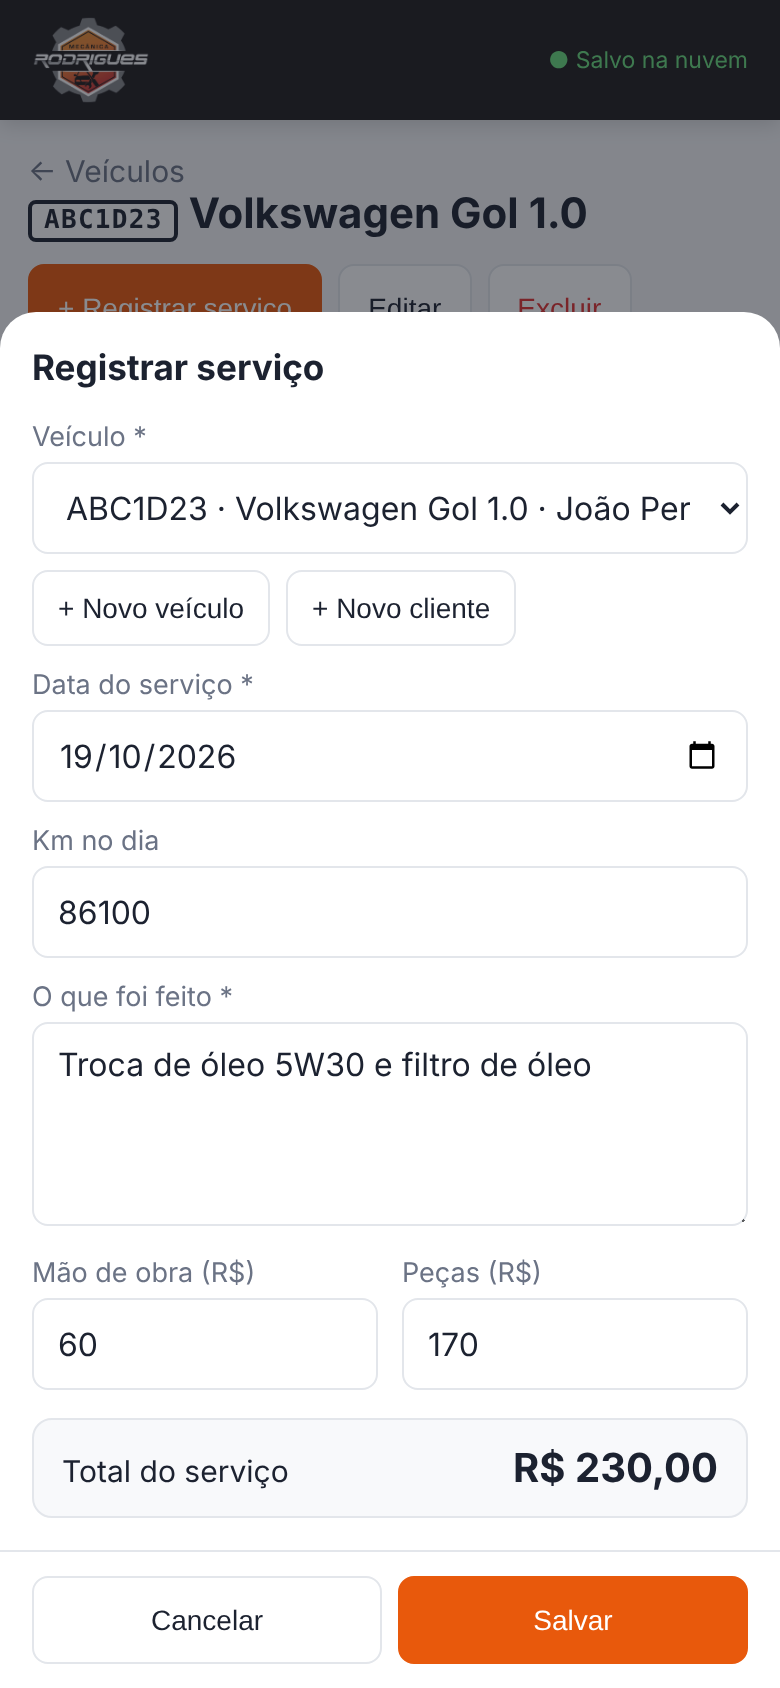
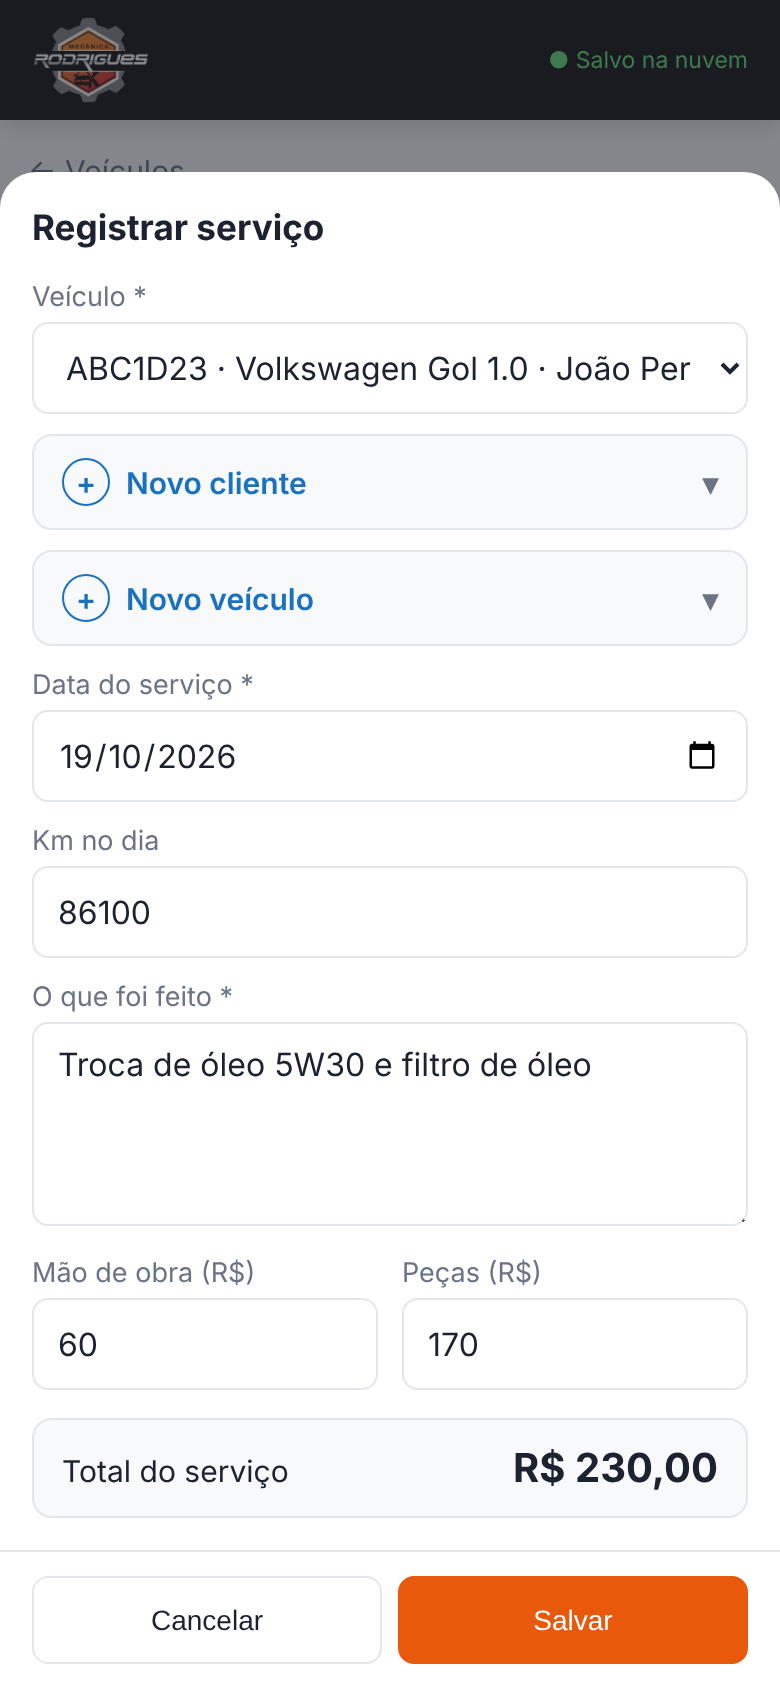
Novo cliente e novo veículo como seções dentro do serviço (versão 7)
- o formulário de registrar serviço passa a ter duas seções que abrem e
  fecham, nesta ordem: "Novo cliente" e "Novo veículo" (no lugar dos
  botões que abriam outra janela)
- abrir "Novo veículo" dispensa escolher o veículo da lista; abrir
  "Novo cliente" abre também o veículo com o novo cliente como dono
- ao salvar, valida tudo (nome/telefone, dono, placa/modelo, placa
  repetida) e só então cria cliente, veículo e serviço, nessa ordem
- sem clientes ou veículos cadastrados, as seções necessárias já abrem
- versão 7 (COMPAT_MINIMA continua 6: formato dos dados não mudou)
- README e prints atualizados

Claude-Session: https://claude.ai/code/session_01Nm6nWQGTdthzbNY6jBommo

diff --git a/app.js b/app.js
@@ -10,7 +10,7 @@ const DB_KEY = "oficina_db_v1";
 // Se a mudança altera o formato dos dados (uma versão antiga estragaria ou
 // apagaria dados novos), iguale também COMPAT_MINIMA a APP_VERSAO: as versões
 // mais antigas que ela ficam impedidas de gravar até serem atualizadas.
-const APP_VERSAO = 6;
+const APP_VERSAO = 7;
 const COMPAT_MINIMA = 6;
 
 // ---------- utilidades ----------
@@ -360,9 +360,7 @@ const servicoFields = () => [
           l: [v.placa, nomeVeiculo(v), getCliente(v.clienteId)?.nome].filter(Boolean).join(" · "),
         })),
     ],
-    afterHTML: `<div class="field-actions">
-      <button type="button" class="btn sm" data-novo="veiculo">+ Novo veículo</button>
-      <button type="button" class="btn sm" data-novo="cliente">+ Novo cliente</button></div>`,
+    afterHTML: novosCadastrosHTML(),
   },
   { k: "data", label: "Data do serviço", type: "date", required: true },
   { k: "km", label: "Km no dia", type: "number", step: "1", ph: "Ex.: 85400" },
@@ -379,15 +377,108 @@ const servicoFields = () => [
   { k: "pecas", label: "Peças (R$)", type: "money", ph: "0,00" },
 ];
 
-// rascunho: valores já digitados no formulário (ao voltar de "Novo veículo"/"Novo cliente")
-function editServico(id, preset = {}, rascunho = null) {
-  if (!db.veiculos.length && !rascunho) {
-    toast("Cadastre um veículo primeiro");
-    return editVeiculo(null, {}, (vid) => editServico(null, { ...preset, veiculoId: vid }));
+/* "Novo cliente" e "Novo veículo" dentro do formulário de serviço: duas seções
+   que abrem e fecham (nessa ordem). Os campos delas não fazem parte do serviço;
+   ao Salvar, o app cria o cliente, depois o veículo e por fim o serviço. */
+function novosCadastrosHTML() {
+  const clientes = db.clientes.slice().sort((a, b) => a.nome.localeCompare(b.nome));
+  return `<details class="sub-form" id="dNovoCliente">
+      <summary>Novo cliente</summary>
+      <div class="grid">
+        <div class="full"><label>Nome *</label><input name="nc_nome" autocomplete="off"></div>
+        <div><label>Telefone *</label><input name="nc_telefone" type="tel" inputmode="tel" autocomplete="off" placeholder="(67) 98888-7777"></div>
+        <div><label>Endereço</label><input name="nc_endereco" autocomplete="off"></div>
+      </div>
+    </details>
+    <details class="sub-form" id="dNovoVeiculo">
+      <summary>Novo veículo</summary>
+      <div class="grid">
+        <div class="full"><label>Dono *</label><select name="nv_dono">
+          <option value="">— selecione —</option>
+          <option value="__novo__" hidden disabled>Novo cliente (acima)</option>
+          ${clientes.map((c) => `<option value="${esc(c.id)}">${esc(c.nome)}</option>`).join("")}
+        </select></div>
+        <div><label>Placa *</label><input name="nv_placa" autocomplete="off" placeholder="ABC1D23"></div>
+        <div><label>Marca</label><input name="nv_marca" autocomplete="off" placeholder="Volkswagen"></div>
+        <div class="full"><label>Modelo *</label><input name="nv_modelo" autocomplete="off" placeholder="Gol 1.0"></div>
+      </div>
+      <p class="hint">O serviço será registrado neste veículo novo.</p>
+    </details>`;
+}
+
+// Liga as seções: abrir "Novo veículo" dispensa a escolha do veículo; abrir
+// "Novo cliente" abre também o veículo, já com o novo cliente como dono.
+function ligarNovosCadastros() {
+  const dC = $("#dNovoCliente"),
+    dV = $("#dNovoVeiculo"),
+    sel = $('#mf [name="veiculoId"]'),
+    dono = $('#mf [name="nv_dono"]'),
+    optNovo = $('#mf [name="nv_dono"] option[value="__novo__"]');
+  const sync = () => {
+    sel.disabled = dV.open;
+    sel.required = !dV.open;
+    optNovo.hidden = optNovo.disabled = !dC.open;
+    if (dC.open && !dono.value) dono.value = "__novo__";
+    if (!dC.open && dono.value === "__novo__") dono.value = "";
+  };
+  dC.addEventListener("toggle", () => {
+    sync();
+    if (dC.open) {
+      dV.open = true;
+      dono.value = "__novo__";
+      setTimeout(() => $('#mf [name="nc_nome"]')?.focus(), 30);
+    }
+  });
+  dV.addEventListener("toggle", () => {
+    if (dV.open && !dC.open) setTimeout(() => { if (dV.isConnected) (dono.value ? $('#mf [name="nv_placa"]') : dono)?.focus(); }, 30);
+    sync();
+  });
+  sync();
+}
+
+// Lê e valida as seções abertas. Devolve { cliente, veiculo } (novos) ou null se inválido.
+function lerNovosCadastros(km) {
+  const val = (n) => ($(`#mf [name="${n}"]`)?.value || "").trim();
+  const abrirC = $("#dNovoCliente").open,
+    abrirV = $("#dNovoVeiculo").open;
+  let cliente = null,
+    veiculo = null;
+  if (abrirC) {
+    if (!val("nc_nome") || !val("nc_telefone")) {
+      alert("Novo cliente: informe nome e telefone.");
+      return null;
+    }
+    if (!abrirV) {
+      alert("Cadastre também o veículo do novo cliente.");
+      $("#dNovoVeiculo").open = true;
+      return null;
+    }
+    cliente = { id: uid(), nome: val("nc_nome"), telefone: val("nc_telefone"), endereco: val("nc_endereco"), criado: today() };
   }
+  if (abrirV) {
+    const dono = val("nv_dono");
+    const clienteId = dono === "__novo__" ? cliente?.id : getCliente(dono)?.id;
+    if (!clienteId) {
+      alert("Novo veículo: escolha o dono.");
+      return null;
+    }
+    const placa = val("nv_placa").toUpperCase().replace(/[^A-Z0-9]/g, "");
+    if (!placa || !val("nv_modelo")) {
+      alert("Novo veículo: informe placa e modelo.");
+      return null;
+    }
+    if (db.veiculos.some((x) => x.placa === placa)) {
+      alert("Já existe um veículo com essa placa. Escolha-o na lista de veículos.");
+      return null;
+    }
+    veiculo = { id: uid(), clienteId, placa, marca: val("nv_marca"), modelo: val("nv_modelo"), km: km === "" ? "" : km, criado: today() };
+  }
+  return { cliente, veiculo };
+}
+
+function editServico(id, preset = {}) {
   const s = id ? getServico(id) : { data: today(), ...preset };
   if (!s) return;
-  const dados = rascunho ? { ...s, ...rascunho } : s;
   // serviço registrado antes da divisão: mantém o total se os dois campos ficarem vazios
   const totalAntigo = id && !temDivisao(s) && temNum(s.valor) ? num(s.valor) : null;
   const extraHTML = `<div class="total-servico"><span>Total do serviço</span><b id="totalServico">—</b></div>
@@ -410,17 +501,20 @@ function editServico(id, preset = {}, rascunho = null) {
   formModal(
     id ? "Editar serviço" : "Registrar serviço",
     servicoFields(),
-    dados,
+    s,
     (vals) => {
-      const v = getVeiculo(vals.veiculoId);
+      const novos = lerNovosCadastros(vals.km);
+      if (!novos) return false;
+      const v = novos.veiculo || getVeiculo(vals.veiculoId);
       if (!v) {
-        alert("Escolha o veículo.");
+        alert("Escolha o veículo ou abra “Novo veículo” para cadastrar um.");
         return false;
       }
       if (!vals.descricao) {
         alert("Descreva o que foi feito.");
         return false;
       }
+      vals.veiculoId = v.id;
       // km menor que o de um serviço anterior costuma ser erro de digitação
       if (vals.km !== "") {
         const antes = db.servicos.filter(
@@ -436,6 +530,9 @@ function editServico(id, preset = {}, rascunho = null) {
         )
           return false;
       }
+      // tudo validado: grava cliente e veículo novos antes do serviço
+      if (novos.cliente) db.clientes.push(novos.cliente);
+      if (novos.veiculo) db.veiculos.push(novos.veiculo);
       // total = mão de obra + peças
       if (vals.maoDeObra === "" && vals.pecas === "") vals.valor = totalAntigo !== null ? totalAntigo : "";
       else vals.valor = arred(num(vals.maoDeObra) + num(vals.pecas));
@@ -451,29 +548,17 @@ function editServico(id, preset = {}, rascunho = null) {
       atualizarKm(v);
       if (veiculoAntes && veiculoAntes !== v) atualizarKm(veiculoAntes);
       save();
-      toast("Serviço salvo");
+      toast(
+        novos.cliente ? "Cliente, veículo e serviço salvos" : novos.veiculo ? "Veículo e serviço salvos" : "Serviço salvo",
+      );
       render();
     },
     { extraHTML, onInput, ...(id ? { onDelete: () => removeItem("servico", id) } : {}) },
   );
-  // "+ Novo veículo" e "+ Novo cliente": guardam o que já foi digitado, abrem o
-  // cadastro e, ao salvar, voltam para este serviço com o veículo novo escolhido.
-  // Cancelar (ou voltar) retorna para o serviço sem perder nada.
-  const lerRascunho = () => Object.fromEntries($$("#mf [name]").map((el) => [el.name, el.value]));
-  const voltar = (r) => () => editServico(id, preset, r);
-  const comVeiculo = (r) => (vid) => editServico(id, preset, { ...r, veiculoId: vid });
-  $('#mf [data-novo="veiculo"]').onclick = () => {
-    const r = lerRascunho();
-    editVeiculo(null, {}, comVeiculo(r), { onCancel: voltar(r) });
-  };
-  $('#mf [data-novo="cliente"]').onclick = () => {
-    const r = lerRascunho();
-    editCliente(
-      null,
-      (cid) => editVeiculo(null, { clienteId: cid }, comVeiculo(r), { onCancel: voltar(r) }),
-      { onCancel: voltar(r) },
-    );
-  };
+  ligarNovosCadastros();
+  // sem veículos (ou sem clientes) cadastrados: já abre as seções necessárias
+  if (!db.clientes.length) $("#dNovoCliente").open = true;
+  else if (!db.veiculos.length) $("#dNovoVeiculo").open = true;
 }
 
 function removeItem(kind, id) {

diff --git a/style.css b/style.css
@@ -96,7 +96,20 @@ table.list td.desc { max-width: 420px; }
 .tl-desc { margin-top: 4px; white-space: pre-line; overflow-wrap: anywhere; }
 .tl-dono { font-size: 13px; margin-top: 4px; }
 .tl-partes { font-size: 13px; margin-top: 4px; }
-.field-actions { display: flex; gap: 8px; flex-wrap: wrap; margin-top: 8px; }
+/* Novo cliente / Novo veículo dentro do formulário de serviço */
+.sub-form { margin-top: 10px; border: 1px solid var(--border); border-radius: 10px; background: var(--surface-2); }
+.sub-form summary { list-style: none; cursor: pointer; padding: 11px 14px; font-weight: 600; color: var(--info);
+  display: flex; align-items: center; gap: 8px; -webkit-tap-highlight-color: transparent; }
+.sub-form summary::-webkit-details-marker { display: none; }
+.sub-form summary::before { content: "+"; display: inline-grid; place-items: center; width: 22px; height: 22px; border-radius: 50%;
+  border: 1.5px solid currentColor; font-size: 15px; line-height: 1; }
+.sub-form[open] summary::before { content: "−"; }
+.sub-form summary::after { content: "▾"; margin-left: auto; color: var(--muted); transition: transform .15s; }
+.sub-form[open] summary::after { transform: rotate(180deg); }
+.sub-form[open] summary { border-bottom: 1px solid var(--border); }
+.sub-form > .grid { padding: 12px 14px 4px; }
+.sub-form > .hint { padding: 0 14px 12px; margin: 6px 0 0; }
+#mf select:disabled { opacity: .5; }
 
 /* Campo de pesquisa com a lupa à direita */
 .busca { position: relative; flex: 1 1 340px; max-width: 340px; }

diff --git a/README.md b/README.md
@@ -19,7 +19,7 @@ As imagens usam dados de exemplo (fictícios).
     <td align="center"><img src="docs/screenshots/celular-painel.png" width="200" alt="Painel com resumo do mês e últimos serviços"><br><sub><b>Painel</b><br>resumo do mês e últimos serviços</sub></td>
     <td align="center"><img src="docs/screenshots/celular-historico.png" width="200" alt="Ficha do veículo com o histórico de serviços"><br><sub><b>Histórico do veículo</b><br>data, km, mão de obra, peças, total e dono na época</sub></td>
     <td align="center"><img src="docs/screenshots/celular-servicos.png" width="200" alt="Lista de todos os serviços com busca"><br><sub><b>Serviços</b><br>todos os serviços, com busca</sub></td>
-    <td align="center"><img src="docs/screenshots/celular-registrar.png" width="200" alt="Formulário para registrar um serviço"><br><sub><b>Registrar serviço</b><br>mão de obra + peças = total, com atalhos para novo veículo e cliente</sub></td>
+    <td align="center"><img src="docs/screenshots/celular-registrar.png" width="200" alt="Formulário para registrar um serviço"><br><sub><b>Registrar serviço</b><br>mão de obra + peças = total, com seções de novo cliente e novo veículo</sub></td>
   </tr>
 </table>
 
@@ -65,7 +65,7 @@ Regras principais:
 - **Dono na época:** cada serviço guarda quem era o dono quando foi registrado. Se o carro for vendido (troca de dono no cadastro do veículo), o histórico continua mostrando o dono antigo nos serviços antigos ("Dono na época: …"), e a ficha do cliente antigo continua listando os serviços feitos para ele.
 - **Valores do serviço:** cada serviço tem **mão de obra** e **peças**; o **total** é a soma dos dois, calculada na hora no formulário. Os campos aceitam `235,50`, `1.234,56`, `R$ 80` ou `80.5`; um valor inválido é recusado com aviso. Painel, lista de serviços e ficha do veículo mostram os totais de mão de obra, peças e geral.
 - **Serviços registrados antes da divisão** (versão 5 ou anterior) só têm o total. Eles continuam somando no total geral; ao editar, o formulário mostra o total guardado e, se mão de obra e peças forem deixadas vazias, o total é mantido.
-- **Cadastro rápido no serviço:** o formulário de registrar serviço tem **+ Novo veículo** e **+ Novo cliente**. O que já foi digitado no serviço é guardado; ao salvar o cadastro, o app volta ao serviço com o veículo novo escolhido (no caso de cliente novo, abre em seguida o veículo dele). Cancelar volta para o serviço sem perder nada.
+- **Novo cliente e novo veículo no próprio serviço:** o formulário de registrar serviço tem duas seções que abrem e fecham, nesta ordem: **Novo cliente** e **Novo veículo**. Abrir "Novo veículo" dispensa escolher um veículo da lista; abrir "Novo cliente" abre também o veículo, já com o novo cliente como dono. Ao **Salvar**, o app valida tudo e só então cria o cliente, o veículo e o serviço, nessa ordem (nada fica criado pela metade). Sem clientes ou veículos cadastrados, as seções necessárias já abrem sozinhas.
 - **Botão voltar do celular:** com uma janela de edição aberta, o primeiro "voltar" fecha só a janela (ou volta para a janela anterior, nos cadastros em sequência), sem sair da tela.
 - **Pesquisa:** os campos de busca mostram só "Pesquisar", em cinza, com a lupa à direita.
 - **Exclusões protegidas:** um veículo com serviços no histórico não pode ser excluído, e um cliente que é dono de veículos ou aparece no histórico também não.
@@ -191,7 +191,7 @@ O endereço depois do `#` decide a tela (**roteamento por hash**). A função `r
 
 - **Botões** usam o atributo `data-act="nomeDaAcao"`. Um único ouvinte de clique em `app.js` procura esse atributo e chama a função correspondente no objeto `actions` (ex.: `novoServico`, `editVeiculo`, `exportar`).
 - **Cadastros e serviços** abrem num formulário em janela (`formModal`), que valida e devolve os valores. Tocar num serviço da lista ou do histórico abre a edição, com o botão Excluir.
-- **Janelas e o botão voltar:** ao abrir uma janela, o app cria um passo no histórico do navegador (`history.pushState`); o "voltar" do celular dispara `popstate` e fecha só a janela. Ao fechar pelo app (Salvar, Cancelar), esse passo é desfeito com `history.back()`. Janelas abertas a partir de outra (cadastro de veículo a partir do serviço) usam o mesmo passo e guardam a função `onCancel`, que leva de volta à janela anterior.
+- **Janelas e o botão voltar:** ao abrir uma janela, o app cria um passo no histórico do navegador (`history.pushState`); o "voltar" do celular dispara `popstate` e fecha só a janela. Ao fechar pelo app (Salvar, Cancelar), esse passo é desfeito com `history.back()`. Janelas abertas em sequência (ex.: em Veículos sem nenhum cliente, o app pede o cliente e depois o veículo) usam o mesmo passo; com a opção `onCancel`, Cancelar e voltar levam à janela anterior.
 - No celular, o menu vira uma **barra inferior** e as listas viram **cartões**.
 
 ### 3. Salvar e sincronizar
